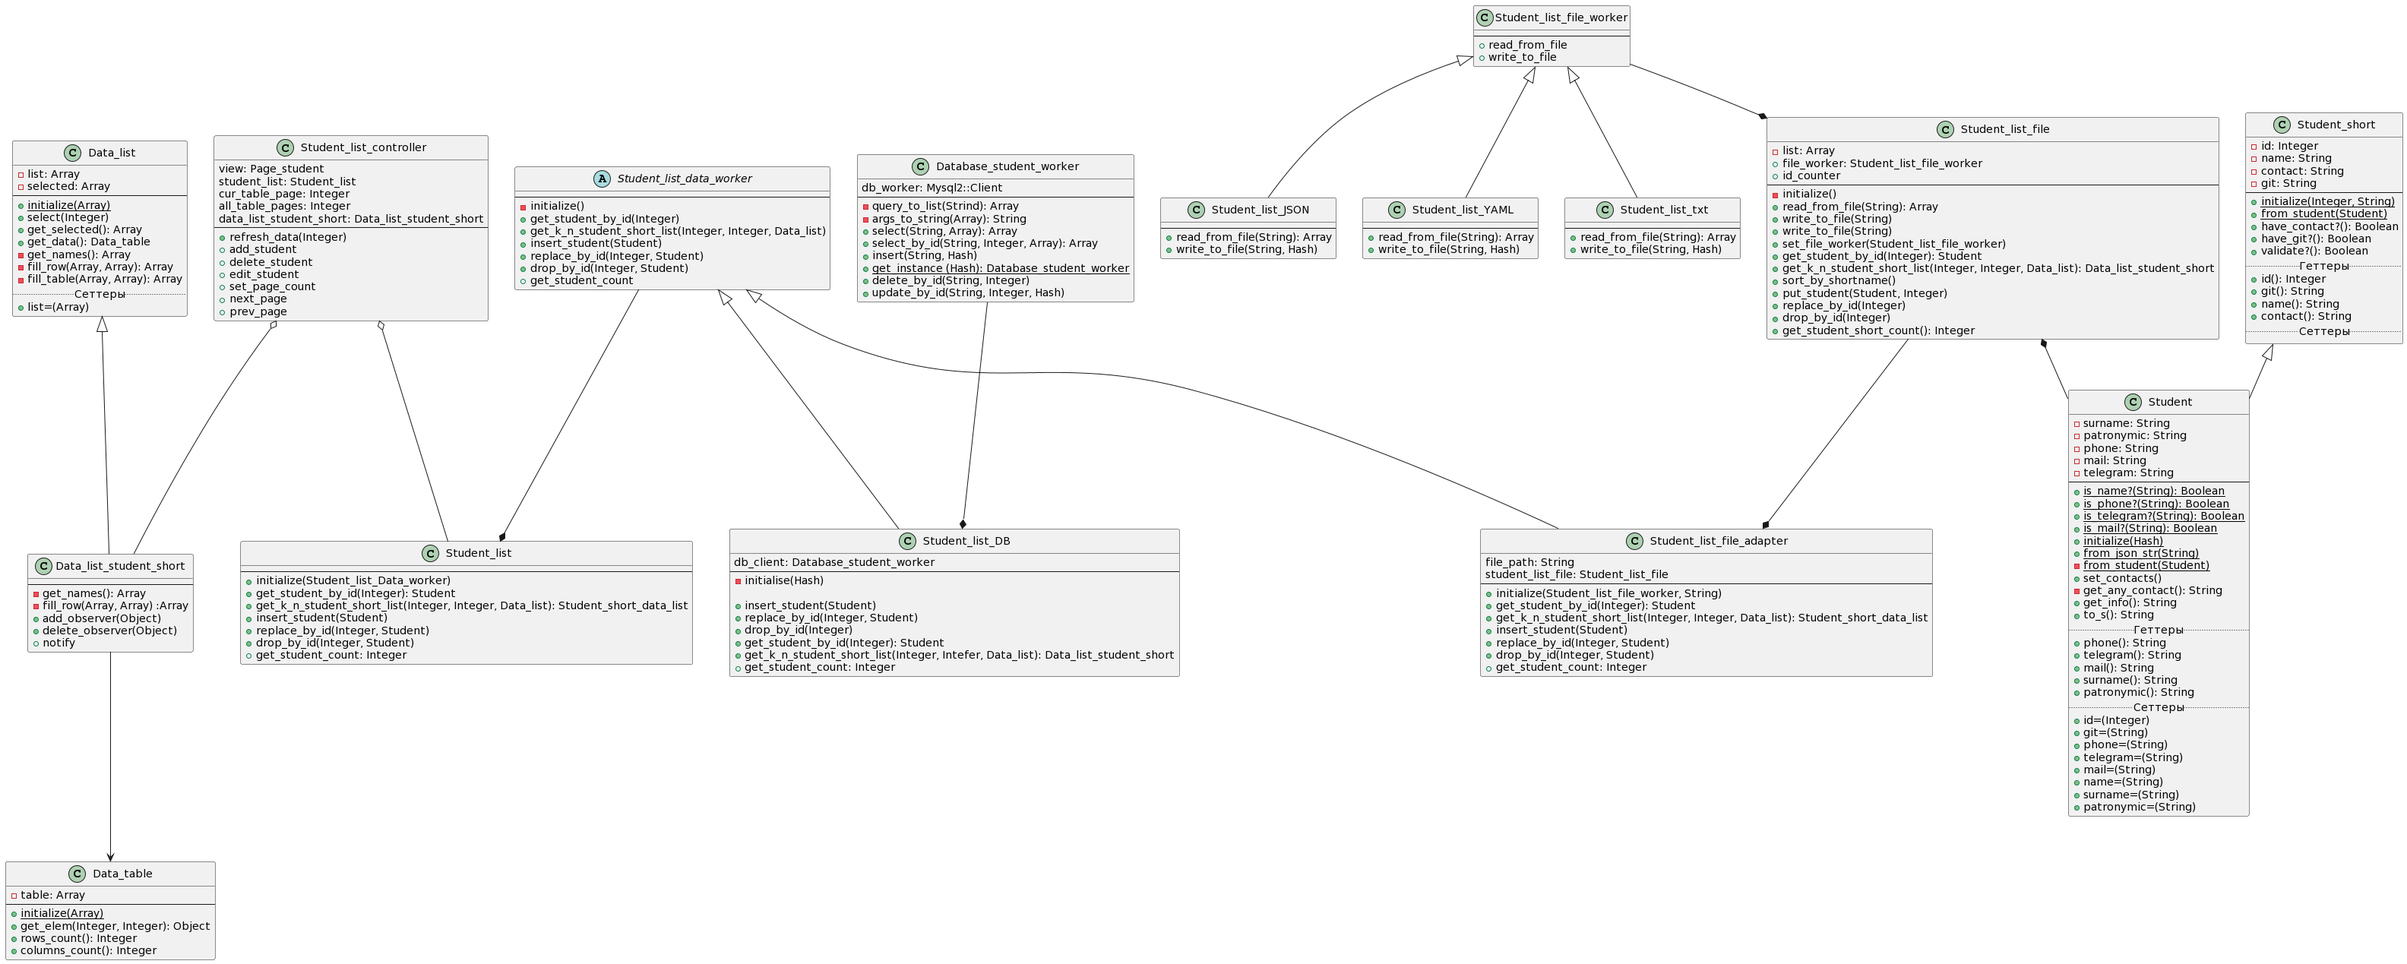
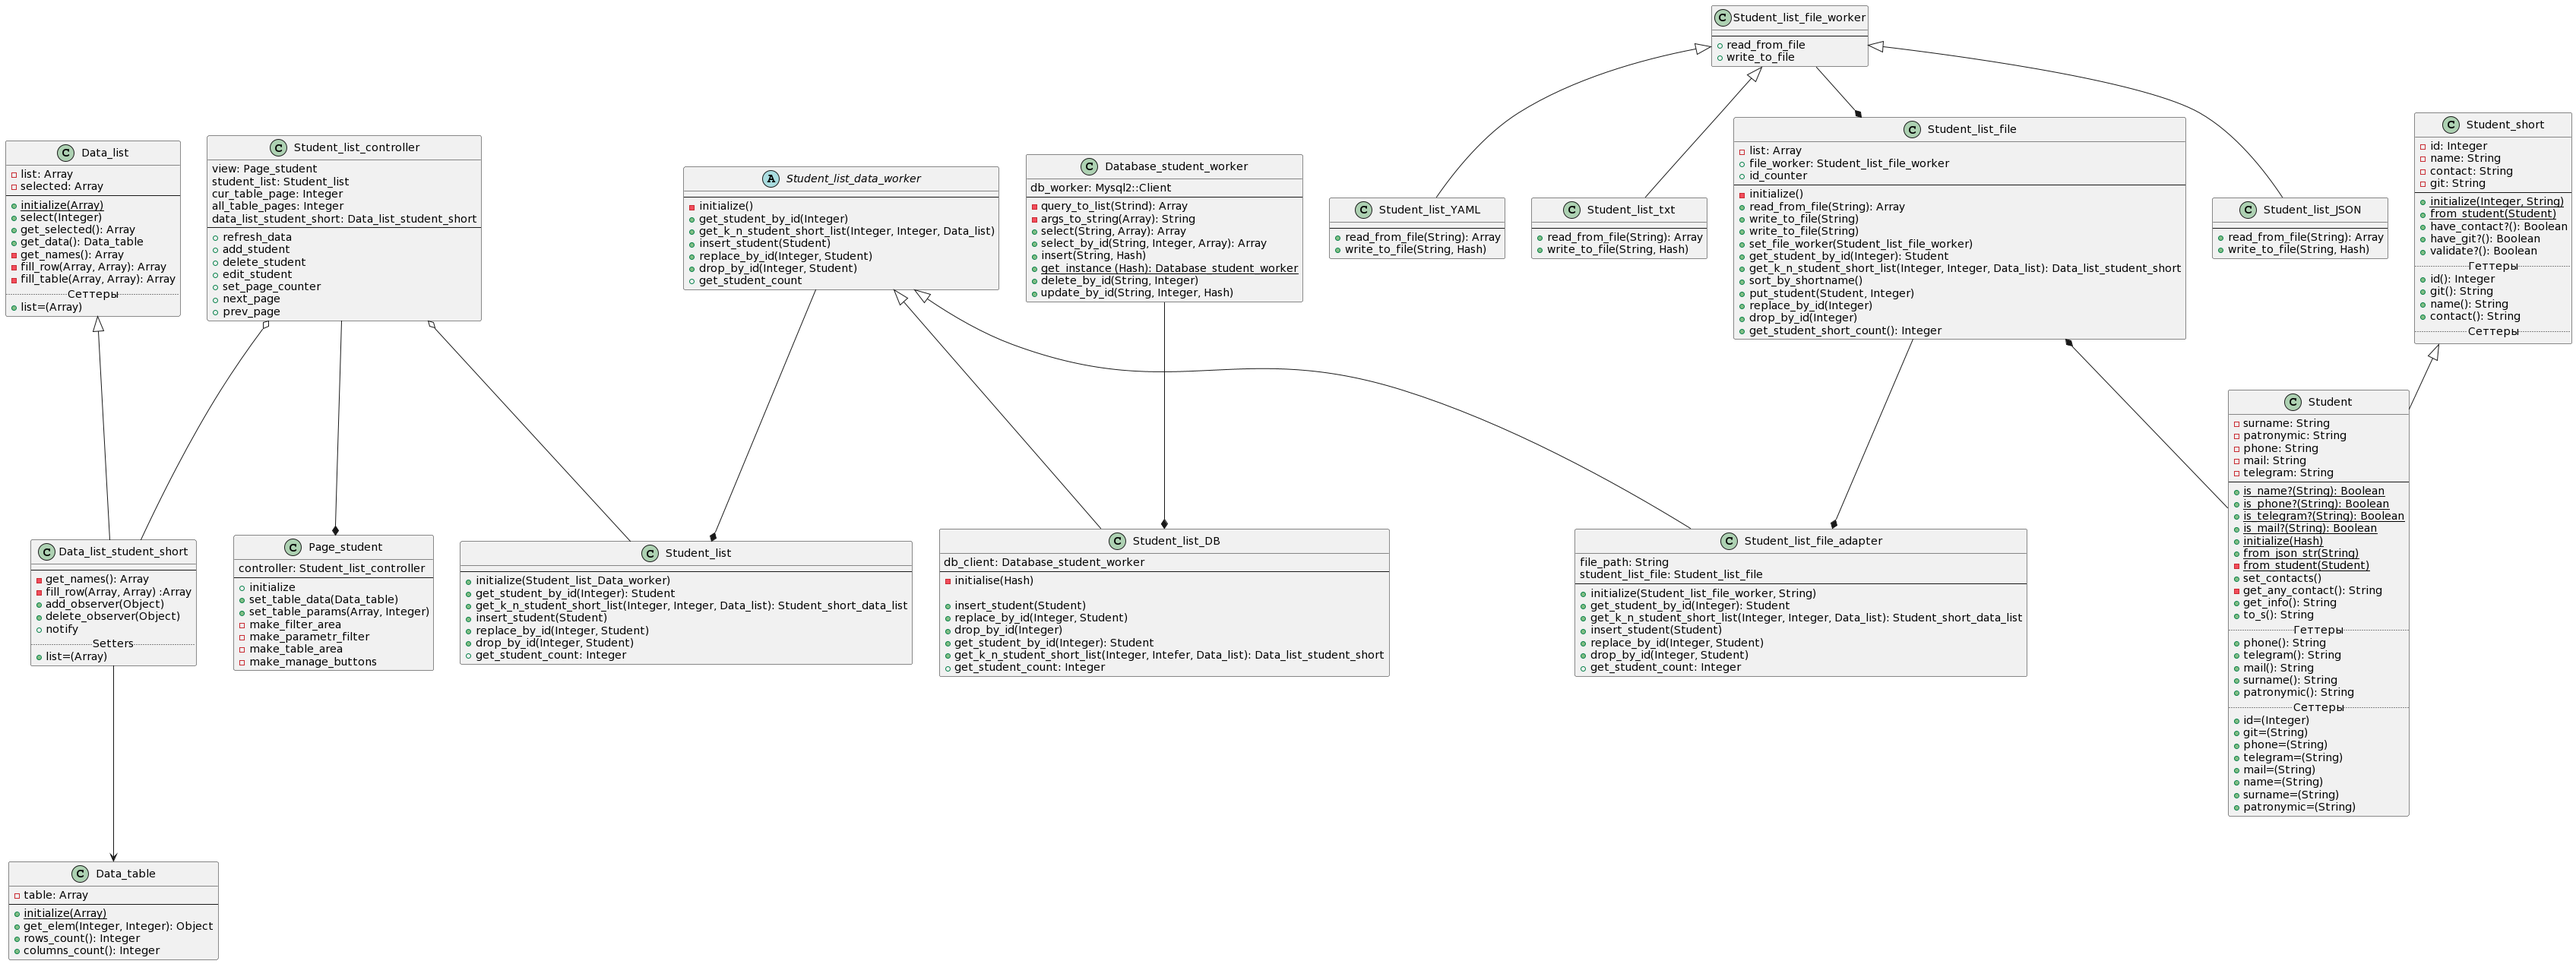
экземпляр data_list теперь не меняется + смены страниц

diff --git a/Lab2/Student/controller/student_list_controller.rb b/Lab2/Student/controller/student_list_controller.rb
@@ -3,6 +3,7 @@ require_relative '../Lists_models/student_list'
 require_relative '../Lists_models/student_list_file_adapter'
 require_relative '../Lists_models/student_list_json'
 require_relative '../Lists_models/student_list_db'
+require_relative '../view/add_student_window'
 require 'yaml'
 require 'json'
 require 'fox16'
@@ -12,22 +13,23 @@ class Student_list_controller
   def initialize(view)
     @view = view
 
-    # @student_list = Student_list.new(Student_list_file_adapter.new(Student_list_JSON.new, 'result_files/input.json'))
-    @student_list = Student_list.new(Student_list_DB.new(YAML.load(File.open('database/config/connect_db_hash.yaml'))))
+    @student_list = Student_list.new(Student_list_file_adapter.new(Student_list_JSON.new, 'result_files/input.json'))
+    # @student_list = Student_list.new(Student_list_DB.new(YAML.load(File.open('database/config/connect_db_hash.yaml'))))
+
     @cur_table_page = 1
     @all_table_pages = (@student_list.get_students_count.to_f / 20.0).ceil
+    @data_list_student_short = @student_list.get_k_n_student_short_list(20, @cur_table_page)
+    @data_list_student_short.add_observer(@view)
   end
 
-  def refresh_data(table_page_num)
-    @data_list_student_short = @student_list.get_k_n_student_short_list(20,table_page_num)
-    @data_list_student_short.add_observer(@view)
-    @data_list_student_short.notify
+  def refresh_data
+    @data_list_student_short.list = @student_list.get_k_n_student_short_list(20,@cur_table_page).list
 
-    set_page_count
+    set_page_counter
   end
 
   def add_student
-
+    Add_student_window.new(@view).execute
   end
 
   def delete_student
@@ -38,21 +40,21 @@ class Student_list_controller
 
   end
 
-  def set_page_count
+  def set_page_counter
     @view.pages_count.text= "#{@cur_table_page}/#{@all_table_pages}"
   end
 
   def next_page
     if(@cur_table_page < @all_table_pages)
       @cur_table_page += 1
-      refresh_data(@cur_table_page)
+      refresh_data
     end
   end
 
   def prev_page
     if(@cur_table_page>1)
       @cur_table_page -= 1
-      refresh_data(@cur_table_page)
+      refresh_data
     end
   end
 end

diff --git a/Lab2/Student/view/page_students.rb b/Lab2/Student/view/page_students.rb
@@ -18,7 +18,7 @@ class Page_students < Page
     make_manage_buttons(main_frame)
 
     @controller = Student_list_controller.new(self)
-    @controller.refresh_data(1)
+    @controller.refresh_data
   end
 
   def set_table_data(data_table)
@@ -93,6 +93,9 @@ class Page_students < Page
   def make_manage_buttons(parent)
     v_frame = FXVerticalFrame.new(parent, :opts => LAYOUT_FILL | PACK_UNIFORM_WIDTH)
     add_button = FXButton.new(v_frame, 'Add')
+    add_button.connect(SEL_COMMAND) do
+      @controller.add_student
+    end
     edit_button = FXButton.new(v_frame, 'Edit')
     delete_button = FXButton.new(v_frame, 'Delete')
   end

diff --git a/Lab2/Student/Lists_models/data_list_student_short.rb b/Lab2/Student/Lists_models/data_list_student_short.rb
@@ -20,11 +20,18 @@ class Data_list_student_short < Data_list
     @observers.delete(observer)
   end
 
+  def list=(other)
+    super
+    notify
+  end
+
   #реакция наблюдателей на изменения
   def notify
-    @observers.each do |obs|
-      obs.set_table_params(get_names, 20)
-      obs.set_table_data(get_data)
+    if @observers
+      @observers.each do |obs|
+        obs.set_table_params(get_names, 20)
+        obs.set_table_data(get_data)
+      end
     end
   end
 

diff --git a/Lab2/Student/Lists_models/data_list.rb b/Lab2/Student/Lists_models/data_list.rb
@@ -25,7 +25,7 @@ class Data_list
     selected_student_id
   end
 
-  protected def list=(other)
+  def list=(other)
     raise ArgumentError, "arg 'objects_list' must be Array" if other.class != Array
     @list = other
   end
